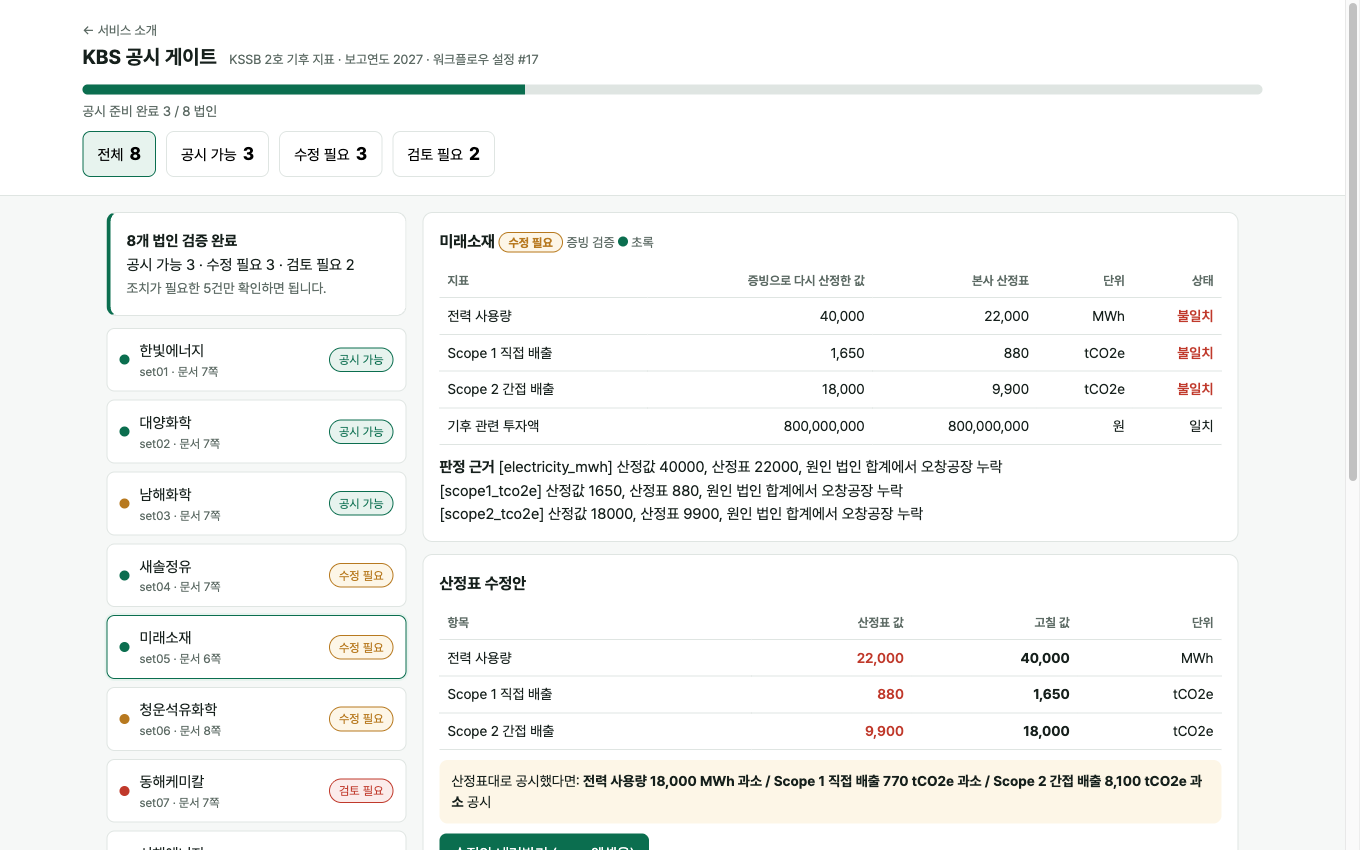
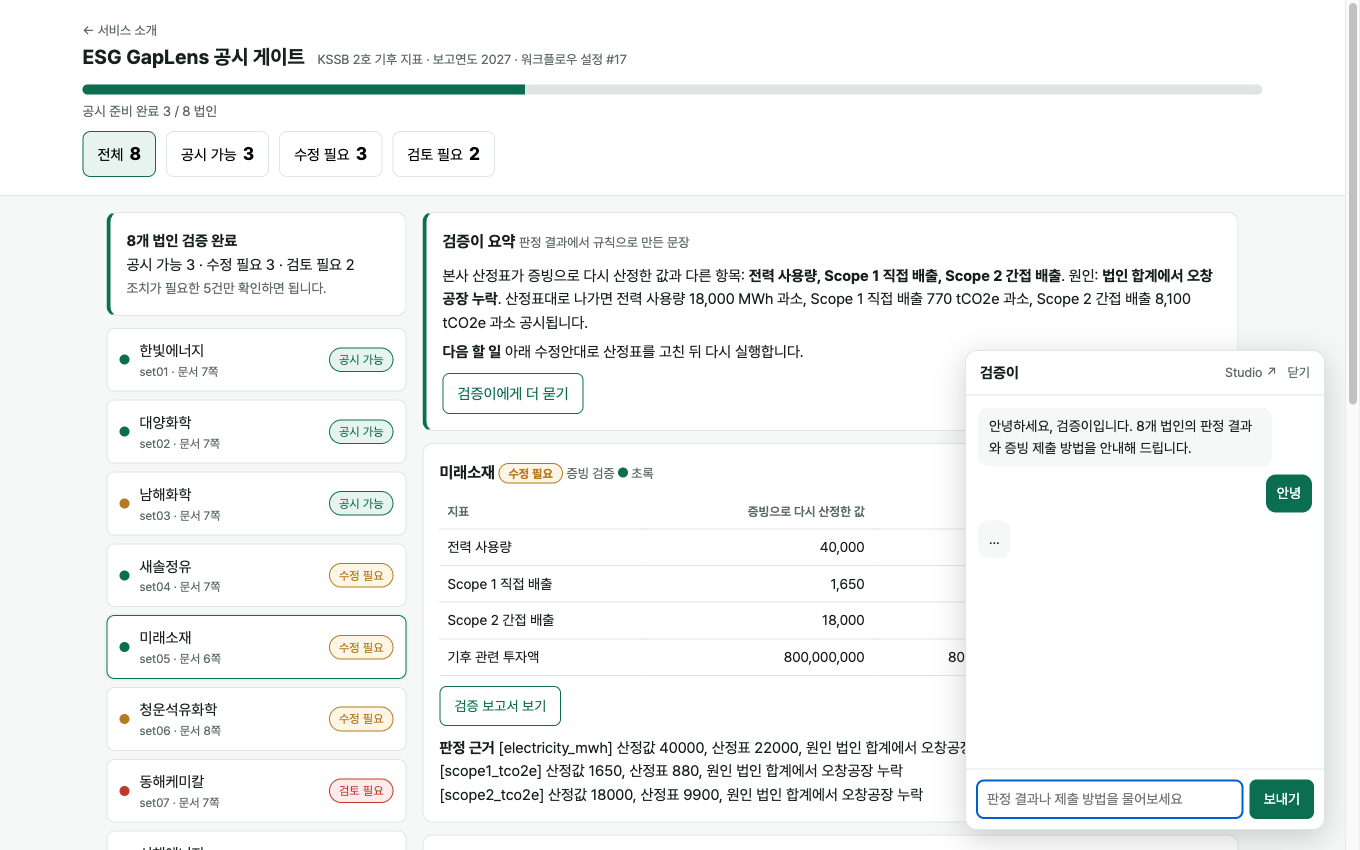
검증이 대화창을 소개·제출·게이트 전 페이지에 추가, 게이트 화면 캡처 교체

diff --git a/chat.js b/chat.js
@@ -1,0 +1,54 @@
+// 검증이 대화창: 소개·증빙 제출·공시 게이트 어디서나 오른쪽 아래에 뜬다.
+// 답은 Apps Script 중계(API)가 만든다. 키는 서버에만 있고 이 파일에는 없다.
+(() => {
+  const API = 'https://script.google.com/macros/s/AKfycbxBRN3a0u50TdrP1I7FvG_yWXa0PhFblTNJQCFiv6ys3nnOt_JQw0BvhnxIJVtUBKgK/exec';  // Apps Script 웹 앱 /exec 주소. 비어 있으면 Studio 작은 창으로 대신 연다
+  const STUDIO = 'https://studio.upstage.ai/coworkers/cw_jbr4Yjmhg3eYMs6f4MnhxT/chat';  // Studio가 iframe을 막아 페이지 안에 넣을 수는 없음
+  const css = `
+#gjfab{position:fixed;right:20px;bottom:20px;z-index:50;background:#0b6e4f;color:#fff;border:0;border-radius:999px;padding:12px 18px;font:600 15px Pretendard,-apple-system,"Apple SD Gothic Neo",sans-serif;cursor:pointer;box-shadow:0 6px 20px rgba(0,0,0,.2)}
+#gj{position:fixed;right:20px;bottom:20px;z-index:51;width:360px;max-width:calc(100vw - 24px);height:480px;max-height:calc(100vh - 40px);background:#fff;color:#16201c;border:1px solid #dfe5e2;border-radius:12px;box-shadow:0 8px 30px rgba(0,0,0,.18);display:none;flex-direction:column;font:14px/1.55 Pretendard,-apple-system,"Apple SD Gothic Neo",sans-serif;text-align:left}
+#gj.on{display:flex}
+#gj .gjh{padding:10px 14px;border-bottom:1px solid #dfe5e2;display:flex;align-items:center;gap:10px}
+#gj .gjh b{flex:1;font-size:15px}
+#gj .gjh button{background:none;border:0;color:#5d6b65;font:inherit;font-size:13px;cursor:pointer;padding:0}
+#gjlog{flex:1;overflow-y:auto;padding:12px;display:flex;flex-direction:column;gap:8px}
+#gjlog div{max-width:88%;padding:8px 11px;border-radius:10px;white-space:pre-wrap;word-break:break-word}
+#gjlog .u{align-self:flex-end;background:#0b6e4f;color:#fff}
+#gjlog .a{align-self:flex-start;background:#f6f8f7}
+#gj form{display:flex;gap:6px;padding:10px;border-top:1px solid #dfe5e2;margin:0}
+#gj input{flex:1;min-width:0;font:inherit;padding:8px 10px;border:1px solid #dfe5e2;border-radius:7px;background:#fff;color:inherit}
+#gj form button{background:#0b6e4f;color:#fff;border:0;border-radius:7px;padding:8px 14px;font:inherit;cursor:pointer}`;
+  document.head.append(Object.assign(document.createElement('style'), { textContent: css }));
+  document.body.insertAdjacentHTML('beforeend', `
+<button id="gjfab" type="button">검증이에게 묻기</button>
+<div id="gj" role="dialog" aria-label="검증이 대화">
+  <div class="gjh"><b>검증이</b><button type="button" id="gjstudio" title="Upstage Studio에서 열기">Studio ↗</button><button type="button" id="gjclose">닫기</button></div>
+  <div id="gjlog" aria-live="polite"></div>
+  <form><input maxlength="300" placeholder="판정 결과나 제출 방법을 물어보세요" aria-label="질문"><button>보내기</button></form>
+</div>`);
+  const $ = s => document.querySelector(s), log = $('#gjlog'), input = $('#gj input');
+  let hist = [];
+  const studio = () => window.open(STUDIO, 'geomjeungi', `popup,width=440,height=${Math.min(760, screen.availHeight)},left=${screen.availWidth - 460},top=40`);
+  const say = (cls, text) => { const d = document.createElement('div'); d.className = cls; d.textContent = text; log.append(d); log.scrollTop = log.scrollHeight; return d; };
+  async function send(q) {
+    say('u', q); const wait = say('a', '…');
+    try {
+      const r = await (await fetch(API, { method: 'POST', headers: { 'Content-Type': 'text/plain;charset=utf-8' },
+        body: JSON.stringify({ action: 'ask', set: window.GJ_SET ? window.GJ_SET() : null, q, history: hist }) })).json();
+      wait.textContent = r.ok ? r.answer : r.error;
+      if (r.ok) hist.push({ role: 'user', content: q }, { role: 'assistant', content: r.answer });
+    } catch (e) { wait.textContent = '연결하지 못했습니다. 위의 Studio ↗ 로 열어 주세요.'; }
+    log.scrollTop = log.scrollHeight;
+  }
+  function open(q) {
+    if (!API) { if (q) navigator.clipboard.writeText(q).catch(() => {}); return studio(); }
+    $('#gj').classList.add('on'); $('#gjfab').style.display = 'none';
+    if (!log.children.length) say('a', '안녕하세요, 검증이입니다. 8개 법인의 판정 결과와 증빙 제출 방법을 안내해 드립니다.');
+    if (q) send(q);
+    input.focus();
+  }
+  $('#gjfab').onclick = () => open();
+  $('#gjclose').onclick = () => { $('#gj').classList.remove('on'); $('#gjfab').style.display = ''; };
+  $('#gjstudio').onclick = studio;
+  $('#gj form').onsubmit = e => { e.preventDefault(); const q = input.value.trim(); if (!q) return; input.value = ''; send(q); };
+  window.GJ = { open };
+})();

diff --git a/gate.html b/gate.html
@@ -71,6 +71,7 @@ details{margin-top:10px}summary{cursor:pointer;color:var(--sub);font-size:13.5px
   <section id="detail"></section>
 </main>
 <div class="foot wrap">모든 법인과 수치는 가상입니다. 배출계수는 과제용 가정값(전력 0.45 tCO2e/MWh, 도시가스 2.2 tCO2e/천Nm³, 경유 2.6 tCO2e/kL)입니다. 화면의 값은 Upstage Studio 워크플로우 실행 결과를 그대로 불러온 것입니다.</div>
+<script src="chat.js"></script>
 <script>
 const DATA = {
  "config": 17,
@@ -1243,6 +1244,7 @@ const esc = s => String(s??'').replace(/[&<>"]/g, c => ({'&':'&amp;','<':'&lt;',
 const pg = (p, bad) => `<span class="pg${bad?' x':''}">${p}쪽</span>`;
 const mwh = e => e.electricity_unit==='kWh' ? e.electricity_value/1000 : e.electricity_value;
 let filter = null, cur = 0;
+window.GJ_SET = () => DATA.cases[cur].set;  // 검증이 대화창(chat.js)이 지금 보고 있는 법인을 읽음
 
 function trace(c){
   const dup = {}; c.fuel.forEach(f => { if (f.doc_no) dup[f.doc_no] = (dup[f.doc_no]||0)+1; });  // 문서번호가 비면 중복으로 세지 않음
@@ -1278,7 +1280,6 @@ function impactList(c){
   return out;
 }
 // 검증이 요약: 판정 JSON에서 규칙으로 만든 문장(LLM 호출 없음). 원인은 reason의 '원인 …' 구절을 그대로 가져옴
-const ASK_URL = 'https://studio.upstage.ai/coworkers/cw_jbr4Yjmhg3eYMs6f4MnhxT/chat';  // Studio AI 동료 "검증이" 대화 주소. 비어 있으면 묻기 버튼을 숨김
 const causes = v => [...new Set(v.reason.split(' / ').map(r => (r.match(/원인 (.+)$/)||[])[1]).filter(Boolean))];
 const askText = c => `${c.verdict.entity_name} 판정 결과를 설명해 주고, 담당자가 다음에 할 일을 알려 줘.`;
 function summary(c){
@@ -1295,7 +1296,7 @@ function summary(c){
   }
   return `<div class="card" style="margin-bottom:12px;border-left:4px solid var(--main)"><h2>검증이 요약 <span style="font-weight:400;color:var(--sub);font-size:13px">판정 결과에서 규칙으로 만든 문장</span></h2>
     <div>${what}</div><div style="margin-top:6px"><b>다음 할 일</b> ${next}</div>
-    ${ASK_URL?`<div class="btns"><button class="btn ghost" data-a="ask">검증이에게 더 묻기 ↗</button></div><div style="color:var(--sub);font-size:13px;margin-top:6px">질문을 복사하고 오른쪽에 검증이 대화 창을 띄웁니다. 붙여넣으면 됩니다.</div>`:''}</div>`;
+    <div class="btns"><button class="btn ghost" data-a="ask">검증이에게 더 묻기</button></div></div>`;
 }
 function impact(c){
   const out=impactList(c);
@@ -1381,7 +1382,7 @@ document.addEventListener('click', e => {
   if (b.dataset.f!==undefined){ filter=b.dataset.f||null; const vis=DATA.cases.findIndex(x=>!filter||x.verdict.decision===filter); if(vis>=0) cur=vis; return render(); }
   if (b.dataset.i!==undefined){ cur=+b.dataset.i; return render(); }
   switch(b.dataset.a){
-    case 'ask': navigator.clipboard.writeText(askText(c)).catch(()=>{}); return window.open(ASK_URL,'geomjeungi',`popup,width=440,height=${Math.min(760,screen.availHeight)},left=${screen.availWidth-460},top=40`);  // 화면 오른쪽에 작은 창으로. Studio가 iframe을 막아(frame-ancestors none) 페이지 안에 넣을 수는 없음
+    case 'ask': return GJ.open(askText(c));
     case 'pkg': return download(`${name}_공시패키지.md`, packageMd(c));
     case 'json': return download(`${name}_판정.json`, JSON.stringify(c.verdict,null,1), 'application/json');
     case 'xbrl': return download(`${name}_태그예시.xml`, xbrl(c), 'application/xml');

diff --git a/index.html b/index.html
@@ -189,5 +189,6 @@ footer{padding:36px 0 48px;color:var(--sub);font-size:13.5px;border-top:1px soli
 </div></section>
 
 <footer><div class="w">모든 법인과 수치는 가상입니다. 배출계수는 과제용 가정값(전력 0.45 tCO2e/MWh, 도시가스 2.2 tCO2e/천Nm³, 경유 2.6 tCO2e/kL)이며 실제 적용 시 국가 고시 계수로 바꿔야 합니다.</div></footer>
+<script src="chat.js"></script>
 </body>
 </html>

diff --git a/landing.html b/landing.html
@@ -189,5 +189,6 @@ footer{padding:36px 0 48px;color:var(--sub);font-size:13.5px;border-top:1px soli
 </div></section>
 
 <footer><div class="w">모든 법인과 수치는 가상입니다. 배출계수는 과제용 가정값(전력 0.45 tCO2e/MWh, 도시가스 2.2 tCO2e/천Nm³, 경유 2.6 tCO2e/kL)이며 실제 적용 시 국가 고시 계수로 바꿔야 합니다.</div></footer>
+<script src="chat.js"></script>
 </body>
 </html>

diff --git a/submit.html b/submit.html
@@ -162,5 +162,6 @@ $('f').onsubmit = async e => {
   }
 };
 </script>
+<script src="chat.js"></script>
 </body>
 </html>
